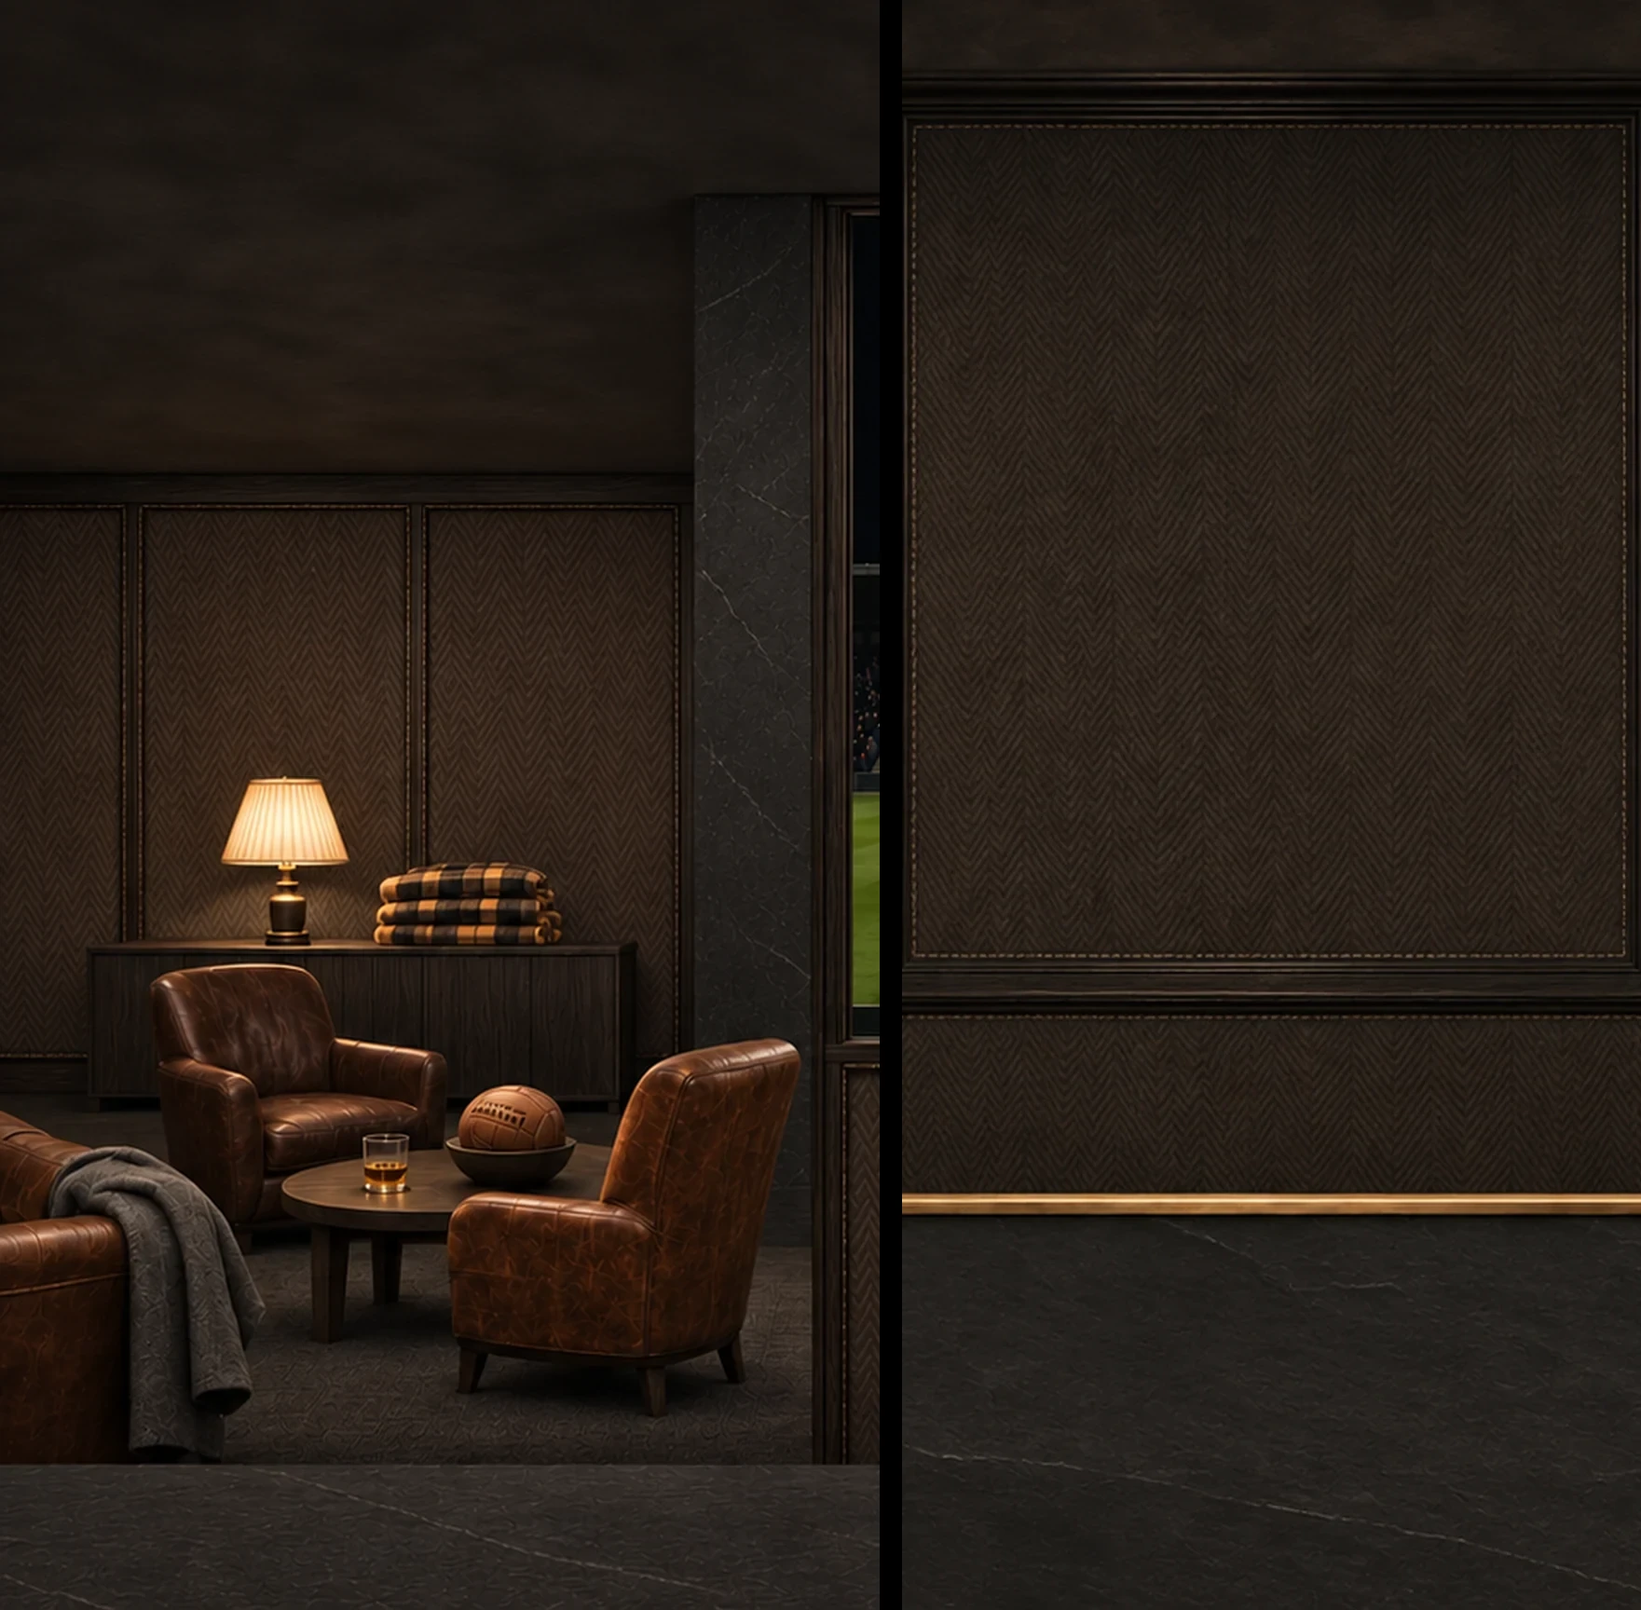
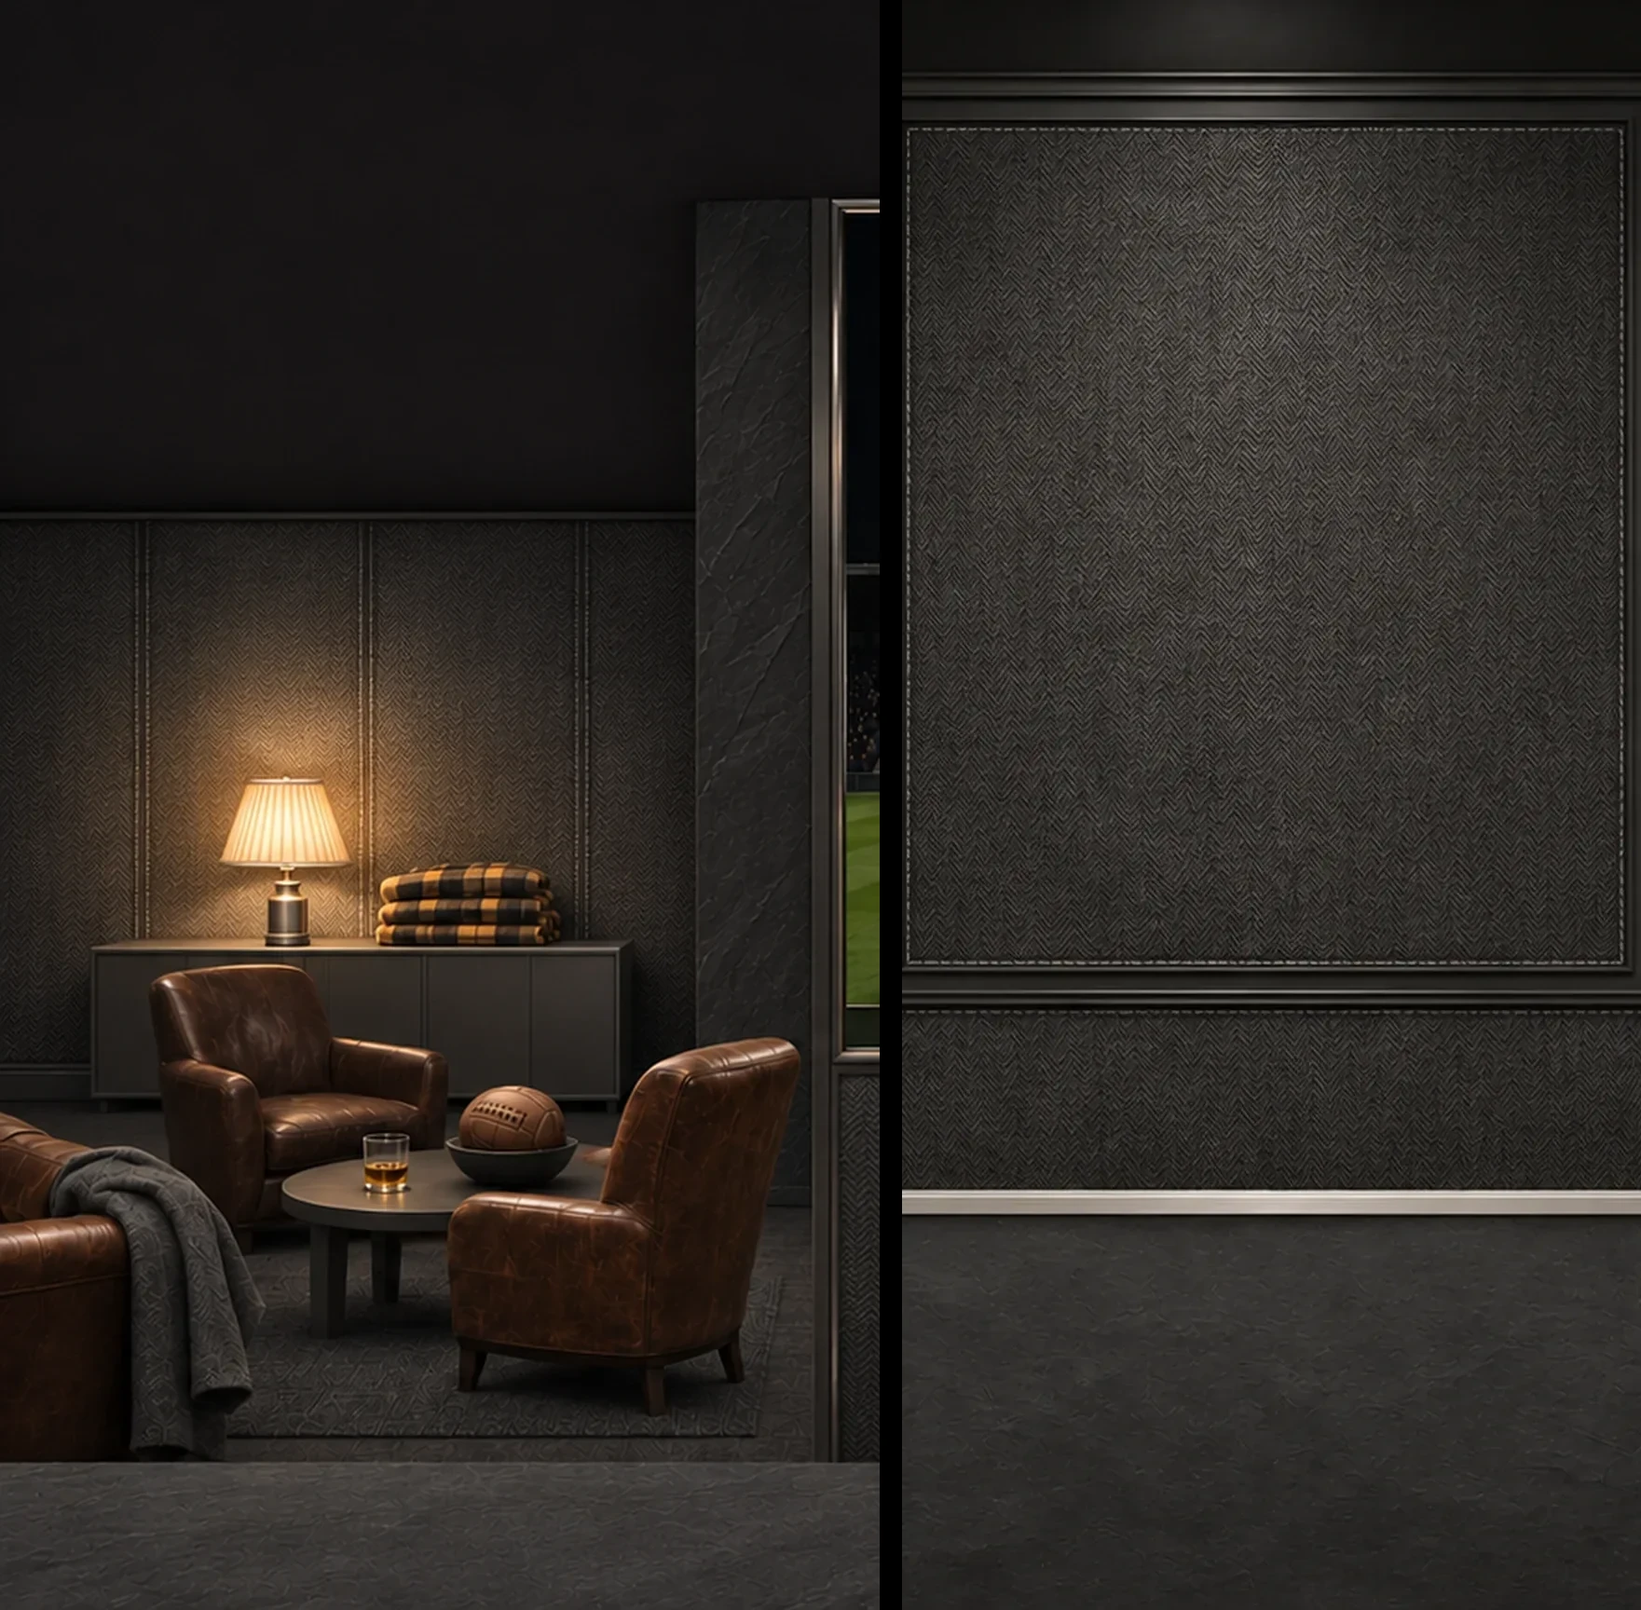
Matte unheld: graphite pilot approved, new REF_PILOT_MATTE (HO-142..160, 164, 167, 170)
Claude-Session: https://claude.ai/code/session_01GU43Q6fCkcGKdHhAqsFt2E

diff --git a/project-documents/leads-relay/handoffs/HO-142_premium-full-set-39-57-premium-matte-bla.md b/project-documents/leads-relay/handoffs/HO-142_premium-full-set-39-57-premium-matte-bla.md
@@ -20,8 +20,8 @@
 }
 ```
 
-### HOLD: graphite direction (Nik 2026-11-25 01:11 UTC)
-**Do not start this ticket yet.** Nik picked **graphite** for the Premium Matte Black Clubhouse ("Yes, graphite like my car"; colour study `attachments/ho-premium-full/MATTE_COLOUR_STUDY.md`). The prompt below is already rewritten for graphite: neutral graphite velvet, a broad soft sheen, layered black, charcoal and graphite, satin titanium accents, no brown, no brass and no glint. It waits for Nik's OK on the two graphite pilot redos (HO-102 Board Room, HO-103 Home). After that OK, Team G re-cuts `REF_PILOT_MATTE.webp` from them (same name, same path) and lifts this hold. Never use the old espresso `REF_PILOT_MATTE.webp` or any earlier Matte result. The HO-173 premium bar applies to every try.
+### Graphite (Nik 2026-11-25 01:25 UTC: "Yes, use graphite")
+Nik approved the graphite pilot (HO-102 Board Room, HO-103 Home). This ticket is **unheld**: start now. Image 2 `REF_PILOT_MATTE.webp` is re-cut from the approved graphite pilot (same name and path; refresh it, and never use an older download). The prompt below is the graphite one. The HO-173 premium bar applies to every try, and Team G runs `matte_check.py` on every delivery.
 
 ### Read this first
 For Team V and Nik. One asset, one ticket, one new chat. Do not upload this ticket to ChatGPT.

diff --git a/project-documents/leads-relay/handoffs/HO-143_premium-full-set-40-57-premium-matte-bla.md b/project-documents/leads-relay/handoffs/HO-143_premium-full-set-40-57-premium-matte-bla.md
@@ -20,8 +20,8 @@
 }
 ```
 
-### HOLD: graphite direction (Nik 2026-11-25 01:11 UTC)
-**Do not start this ticket yet.** Nik picked **graphite** for the Premium Matte Black Clubhouse ("Yes, graphite like my car"; colour study `attachments/ho-premium-full/MATTE_COLOUR_STUDY.md`). The prompt below is already rewritten for graphite: neutral graphite velvet, a broad soft sheen, layered black, charcoal and graphite, satin titanium accents, no brown, no brass and no glint. It waits for Nik's OK on the two graphite pilot redos (HO-102 Board Room, HO-103 Home). After that OK, Team G re-cuts `REF_PILOT_MATTE.webp` from them (same name, same path) and lifts this hold. Never use the old espresso `REF_PILOT_MATTE.webp` or any earlier Matte result. The HO-173 premium bar applies to every try.
+### Graphite (Nik 2026-11-25 01:25 UTC: "Yes, use graphite")
+Nik approved the graphite pilot (HO-102 Board Room, HO-103 Home). This ticket is **unheld**: start now. Image 2 `REF_PILOT_MATTE.webp` is re-cut from the approved graphite pilot (same name and path; refresh it, and never use an older download). The prompt below is the graphite one. The HO-173 premium bar applies to every try, and Team G runs `matte_check.py` on every delivery.
 
 ### Read this first
 For Team V and Nik. One asset, one ticket, one new chat. Do not upload this ticket to ChatGPT.

diff --git a/project-documents/leads-relay/handoffs/HO-144_premium-full-set-41-57-premium-matte-bla.md b/project-documents/leads-relay/handoffs/HO-144_premium-full-set-41-57-premium-matte-bla.md
@@ -20,8 +20,8 @@
 }
 ```
 
-### HOLD: graphite direction (Nik 2026-11-25 01:11 UTC)
-**Do not start this ticket yet.** Nik picked **graphite** for the Premium Matte Black Clubhouse ("Yes, graphite like my car"; colour study `attachments/ho-premium-full/MATTE_COLOUR_STUDY.md`). The prompt below is already rewritten for graphite: neutral graphite velvet, a broad soft sheen, layered black, charcoal and graphite, satin titanium accents, no brown, no brass and no glint. It waits for Nik's OK on the two graphite pilot redos (HO-102 Board Room, HO-103 Home). After that OK, Team G re-cuts `REF_PILOT_MATTE.webp` from them (same name, same path) and lifts this hold. Never use the old espresso `REF_PILOT_MATTE.webp` or any earlier Matte result. The HO-173 premium bar applies to every try.
+### Graphite (Nik 2026-11-25 01:25 UTC: "Yes, use graphite")
+Nik approved the graphite pilot (HO-102 Board Room, HO-103 Home). This ticket is **unheld**: start now. Image 2 `REF_PILOT_MATTE.webp` is re-cut from the approved graphite pilot (same name and path; refresh it, and never use an older download). The prompt below is the graphite one. The HO-173 premium bar applies to every try, and Team G runs `matte_check.py` on every delivery.
 
 ### Read this first
 For Team V and Nik. One asset, one ticket, one new chat. Do not upload this ticket to ChatGPT.

diff --git a/project-documents/leads-relay/handoffs/HO-145_premium-full-set-42-57-premium-matte-bla.md b/project-documents/leads-relay/handoffs/HO-145_premium-full-set-42-57-premium-matte-bla.md
@@ -20,8 +20,8 @@
 }
 ```
 
-### HOLD: graphite direction (Nik 2026-11-25 01:11 UTC)
-**Do not start this ticket yet.** Nik picked **graphite** for the Premium Matte Black Clubhouse ("Yes, graphite like my car"; colour study `attachments/ho-premium-full/MATTE_COLOUR_STUDY.md`). The prompt below is already rewritten for graphite: neutral graphite velvet, a broad soft sheen, layered black, charcoal and graphite, satin titanium accents, no brown, no brass and no glint. It waits for Nik's OK on the two graphite pilot redos (HO-102 Board Room, HO-103 Home). After that OK, Team G re-cuts `REF_PILOT_MATTE.webp` from them (same name, same path) and lifts this hold. Never use the old espresso `REF_PILOT_MATTE.webp` or any earlier Matte result. The HO-173 premium bar applies to every try.
+### Graphite (Nik 2026-11-25 01:25 UTC: "Yes, use graphite")
+Nik approved the graphite pilot (HO-102 Board Room, HO-103 Home). This ticket is **unheld**: start now. Image 2 `REF_PILOT_MATTE.webp` is re-cut from the approved graphite pilot (same name and path; refresh it, and never use an older download). The prompt below is the graphite one. The HO-173 premium bar applies to every try, and Team G runs `matte_check.py` on every delivery.
 
 ### Read this first
 For Team V and Nik. One asset, one ticket, one new chat. Do not upload this ticket to ChatGPT.

diff --git a/project-documents/leads-relay/handoffs/HO-146_premium-full-set-43-57-premium-matte-bla.md b/project-documents/leads-relay/handoffs/HO-146_premium-full-set-43-57-premium-matte-bla.md
@@ -20,8 +20,8 @@
 }
 ```
 
-### HOLD: graphite direction (Nik 2026-11-25 01:11 UTC)
-**Do not start this ticket yet.** Nik picked **graphite** for the Premium Matte Black Clubhouse ("Yes, graphite like my car"; colour study `attachments/ho-premium-full/MATTE_COLOUR_STUDY.md`). The prompt below is already rewritten for graphite: neutral graphite velvet, a broad soft sheen, layered black, charcoal and graphite, satin titanium accents, no brown, no brass and no glint. It waits for Nik's OK on the two graphite pilot redos (HO-102 Board Room, HO-103 Home). After that OK, Team G re-cuts `REF_PILOT_MATTE.webp` from them (same name, same path) and lifts this hold. Never use the old espresso `REF_PILOT_MATTE.webp` or any earlier Matte result. The HO-173 premium bar applies to every try.
+### Graphite (Nik 2026-11-25 01:25 UTC: "Yes, use graphite")
+Nik approved the graphite pilot (HO-102 Board Room, HO-103 Home). This ticket is **unheld**: start now. Image 2 `REF_PILOT_MATTE.webp` is re-cut from the approved graphite pilot (same name and path; refresh it, and never use an older download). The prompt below is the graphite one. The HO-173 premium bar applies to every try, and Team G runs `matte_check.py` on every delivery.
 
 ### Read this first
 For Team V and Nik. One asset, one ticket, one new chat. Do not upload this ticket to ChatGPT.

diff --git a/project-documents/leads-relay/handoffs/HO-147_premium-full-set-44-57-premium-matte-bla.md b/project-documents/leads-relay/handoffs/HO-147_premium-full-set-44-57-premium-matte-bla.md
@@ -20,8 +20,8 @@
 }
 ```
 
-### HOLD: graphite direction (Nik 2026-11-25 01:11 UTC)
-**Do not start this ticket yet.** Nik picked **graphite** for the Premium Matte Black Clubhouse ("Yes, graphite like my car"; colour study `attachments/ho-premium-full/MATTE_COLOUR_STUDY.md`). The prompt below is already rewritten for graphite: neutral graphite velvet, a broad soft sheen, layered black, charcoal and graphite, satin titanium accents, no brown, no brass and no glint. It waits for Nik's OK on the two graphite pilot redos (HO-102 Board Room, HO-103 Home). After that OK, Team G re-cuts `REF_PILOT_MATTE.webp` from them (same name, same path) and lifts this hold. Never use the old espresso `REF_PILOT_MATTE.webp` or any earlier Matte result. The HO-173 premium bar applies to every try.
+### Graphite (Nik 2026-11-25 01:25 UTC: "Yes, use graphite")
+Nik approved the graphite pilot (HO-102 Board Room, HO-103 Home). This ticket is **unheld**: start now. Image 2 `REF_PILOT_MATTE.webp` is re-cut from the approved graphite pilot (same name and path; refresh it, and never use an older download). The prompt below is the graphite one. The HO-173 premium bar applies to every try, and Team G runs `matte_check.py` on every delivery.
 
 ### Read this first
 For Team V and Nik. One asset, one ticket, one new chat. Do not upload this ticket to ChatGPT.

diff --git a/project-documents/leads-relay/handoffs/HO-148_premium-full-set-45-57-premium-matte-bla.md b/project-documents/leads-relay/handoffs/HO-148_premium-full-set-45-57-premium-matte-bla.md
@@ -20,8 +20,8 @@
 }
 ```
 
-### HOLD: graphite direction (Nik 2026-11-25 01:11 UTC)
-**Do not start this ticket yet.** Nik picked **graphite** for the Premium Matte Black Clubhouse ("Yes, graphite like my car"; colour study `attachments/ho-premium-full/MATTE_COLOUR_STUDY.md`). The prompt below is already rewritten for graphite: neutral graphite velvet, a broad soft sheen, layered black, charcoal and graphite, satin titanium accents, no brown, no brass and no glint. It waits for Nik's OK on the two graphite pilot redos (HO-102 Board Room, HO-103 Home). After that OK, Team G re-cuts `REF_PILOT_MATTE.webp` from them (same name, same path) and lifts this hold. Never use the old espresso `REF_PILOT_MATTE.webp` or any earlier Matte result. The HO-173 premium bar applies to every try.
+### Graphite (Nik 2026-11-25 01:25 UTC: "Yes, use graphite")
+Nik approved the graphite pilot (HO-102 Board Room, HO-103 Home). This ticket is **unheld**: start now. Image 2 `REF_PILOT_MATTE.webp` is re-cut from the approved graphite pilot (same name and path; refresh it, and never use an older download). The prompt below is the graphite one. The HO-173 premium bar applies to every try, and Team G runs `matte_check.py` on every delivery.
 
 ### Read this first
 For Team V and Nik. One asset, one ticket, one new chat. Do not upload this ticket to ChatGPT.

diff --git a/project-documents/leads-relay/handoffs/HO-149_premium-full-set-46-57-premium-matte-bla.md b/project-documents/leads-relay/handoffs/HO-149_premium-full-set-46-57-premium-matte-bla.md
@@ -20,8 +20,8 @@
 }
 ```
 
-### HOLD: graphite direction (Nik 2026-11-25 01:11 UTC)
-**Do not start this ticket yet.** Nik picked **graphite** for the Premium Matte Black Clubhouse ("Yes, graphite like my car"; colour study `attachments/ho-premium-full/MATTE_COLOUR_STUDY.md`). The prompt below is already rewritten for graphite: neutral graphite velvet, a broad soft sheen, layered black, charcoal and graphite, satin titanium accents, no brown, no brass and no glint. It waits for Nik's OK on the two graphite pilot redos (HO-102 Board Room, HO-103 Home). After that OK, Team G re-cuts `REF_PILOT_MATTE.webp` from them (same name, same path) and lifts this hold. Never use the old espresso `REF_PILOT_MATTE.webp` or any earlier Matte result. The HO-173 premium bar applies to every try.
+### Graphite (Nik 2026-11-25 01:25 UTC: "Yes, use graphite")
+Nik approved the graphite pilot (HO-102 Board Room, HO-103 Home). This ticket is **unheld**: start now. Image 2 `REF_PILOT_MATTE.webp` is re-cut from the approved graphite pilot (same name and path; refresh it, and never use an older download). The prompt below is the graphite one. The HO-173 premium bar applies to every try, and Team G runs `matte_check.py` on every delivery.
 
 ### Read this first
 For Team V and Nik. One asset, one ticket, one new chat. Do not upload this ticket to ChatGPT.

diff --git a/project-documents/leads-relay/handoffs/HO-150_premium-full-set-47-57-premium-matte-bla.md b/project-documents/leads-relay/handoffs/HO-150_premium-full-set-47-57-premium-matte-bla.md
@@ -20,8 +20,8 @@
 }
 ```
 
-### HOLD: graphite direction (Nik 2026-11-25 01:11 UTC)
-**Do not start this ticket yet.** Nik picked **graphite** for the Premium Matte Black Clubhouse ("Yes, graphite like my car"; colour study `attachments/ho-premium-full/MATTE_COLOUR_STUDY.md`). The prompt below is already rewritten for graphite: neutral graphite velvet, a broad soft sheen, layered black, charcoal and graphite, satin titanium accents, no brown, no brass and no glint. It waits for Nik's OK on the two graphite pilot redos (HO-102 Board Room, HO-103 Home). After that OK, Team G re-cuts `REF_PILOT_MATTE.webp` from them (same name, same path) and lifts this hold. Never use the old espresso `REF_PILOT_MATTE.webp` or any earlier Matte result. The HO-173 premium bar applies to every try.
+### Graphite (Nik 2026-11-25 01:25 UTC: "Yes, use graphite")
+Nik approved the graphite pilot (HO-102 Board Room, HO-103 Home). This ticket is **unheld**: start now. Image 2 `REF_PILOT_MATTE.webp` is re-cut from the approved graphite pilot (same name and path; refresh it, and never use an older download). The prompt below is the graphite one. The HO-173 premium bar applies to every try, and Team G runs `matte_check.py` on every delivery.
 
 ### Read this first
 For Team V and Nik. One asset, one ticket, one new chat. Do not upload this ticket to ChatGPT.

diff --git a/project-documents/leads-relay/handoffs/HO-151_premium-full-set-48-57-premium-matte-bla.md b/project-documents/leads-relay/handoffs/HO-151_premium-full-set-48-57-premium-matte-bla.md
@@ -20,8 +20,8 @@
 }
 ```
 
-### HOLD: graphite direction (Nik 2026-11-25 01:11 UTC)
-**Do not start this ticket yet.** Nik picked **graphite** for the Premium Matte Black Clubhouse ("Yes, graphite like my car"; colour study `attachments/ho-premium-full/MATTE_COLOUR_STUDY.md`). The prompt below is already rewritten for graphite: neutral graphite velvet, a broad soft sheen, layered black, charcoal and graphite, satin titanium accents, no brown, no brass and no glint. It waits for Nik's OK on the two graphite pilot redos (HO-102 Board Room, HO-103 Home). After that OK, Team G re-cuts `REF_PILOT_MATTE.webp` from them (same name, same path) and lifts this hold. Never use the old espresso `REF_PILOT_MATTE.webp` or any earlier Matte result. The HO-173 premium bar applies to every try.
+### Graphite (Nik 2026-11-25 01:25 UTC: "Yes, use graphite")
+Nik approved the graphite pilot (HO-102 Board Room, HO-103 Home). This ticket is **unheld**: start now. Image 2 `REF_PILOT_MATTE.webp` is re-cut from the approved graphite pilot (same name and path; refresh it, and never use an older download). The prompt below is the graphite one. The HO-173 premium bar applies to every try, and Team G runs `matte_check.py` on every delivery.
 
 ### Read this first
 For Team V and Nik. One asset, one ticket, one new chat. Do not upload this ticket to ChatGPT.

diff --git a/project-documents/leads-relay/handoffs/HO-152_premium-full-set-49-57-premium-matte-bla.md b/project-documents/leads-relay/handoffs/HO-152_premium-full-set-49-57-premium-matte-bla.md
@@ -20,8 +20,8 @@
 }
 ```
 
-### HOLD: graphite direction (Nik 2026-11-25 01:11 UTC)
-**Do not start this ticket yet.** Nik picked **graphite** for the Premium Matte Black Clubhouse ("Yes, graphite like my car"; colour study `attachments/ho-premium-full/MATTE_COLOUR_STUDY.md`). The prompt below is already rewritten for graphite: neutral graphite velvet, a broad soft sheen, layered black, charcoal and graphite, satin titanium accents, no brown, no brass and no glint. It waits for Nik's OK on the two graphite pilot redos (HO-102 Board Room, HO-103 Home). After that OK, Team G re-cuts `REF_PILOT_MATTE.webp` from them (same name, same path) and lifts this hold. Never use the old espresso `REF_PILOT_MATTE.webp` or any earlier Matte result. The HO-173 premium bar applies to every try.
+### Graphite (Nik 2026-11-25 01:25 UTC: "Yes, use graphite")
+Nik approved the graphite pilot (HO-102 Board Room, HO-103 Home). This ticket is **unheld**: start now. Image 2 `REF_PILOT_MATTE.webp` is re-cut from the approved graphite pilot (same name and path; refresh it, and never use an older download). The prompt below is the graphite one. The HO-173 premium bar applies to every try, and Team G runs `matte_check.py` on every delivery.
 
 ### Read this first
 For Team V and Nik. One asset, one ticket, one new chat. Do not upload this ticket to ChatGPT.

diff --git a/project-documents/leads-relay/handoffs/HO-153_premium-full-set-50-57-premium-matte-bla.md b/project-documents/leads-relay/handoffs/HO-153_premium-full-set-50-57-premium-matte-bla.md
@@ -20,8 +20,8 @@
 }
 ```
 
-### HOLD: graphite direction (Nik 2026-11-25 01:11 UTC)
-**Do not start this ticket yet.** Nik picked **graphite** for the Premium Matte Black Clubhouse ("Yes, graphite like my car"; colour study `attachments/ho-premium-full/MATTE_COLOUR_STUDY.md`). The prompt below is already rewritten for graphite: neutral graphite velvet, a broad soft sheen, layered black, charcoal and graphite, satin titanium accents, no brown, no brass and no glint. It waits for Nik's OK on the two graphite pilot redos (HO-102 Board Room, HO-103 Home). After that OK, Team G re-cuts `REF_PILOT_MATTE.webp` from them (same name, same path) and lifts this hold. Never use the old espresso `REF_PILOT_MATTE.webp` or any earlier Matte result. The HO-173 premium bar applies to every try.
+### Graphite (Nik 2026-11-25 01:25 UTC: "Yes, use graphite")
+Nik approved the graphite pilot (HO-102 Board Room, HO-103 Home). This ticket is **unheld**: start now. Image 2 `REF_PILOT_MATTE.webp` is re-cut from the approved graphite pilot (same name and path; refresh it, and never use an older download). The prompt below is the graphite one. The HO-173 premium bar applies to every try, and Team G runs `matte_check.py` on every delivery.
 
 ### Read this first
 For Team V and Nik. One asset, one ticket, one new chat. Do not upload this ticket to ChatGPT.
